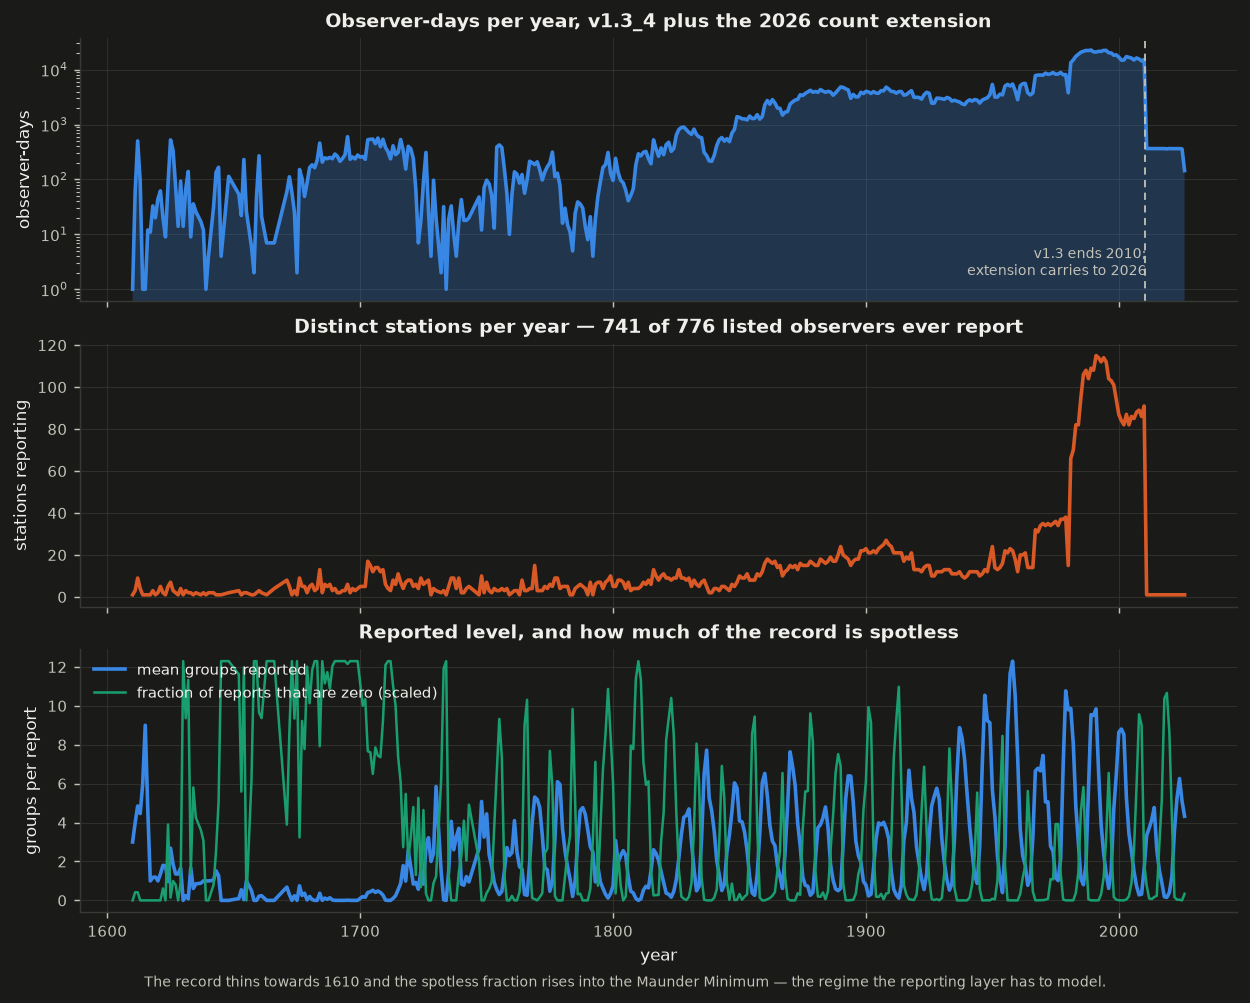
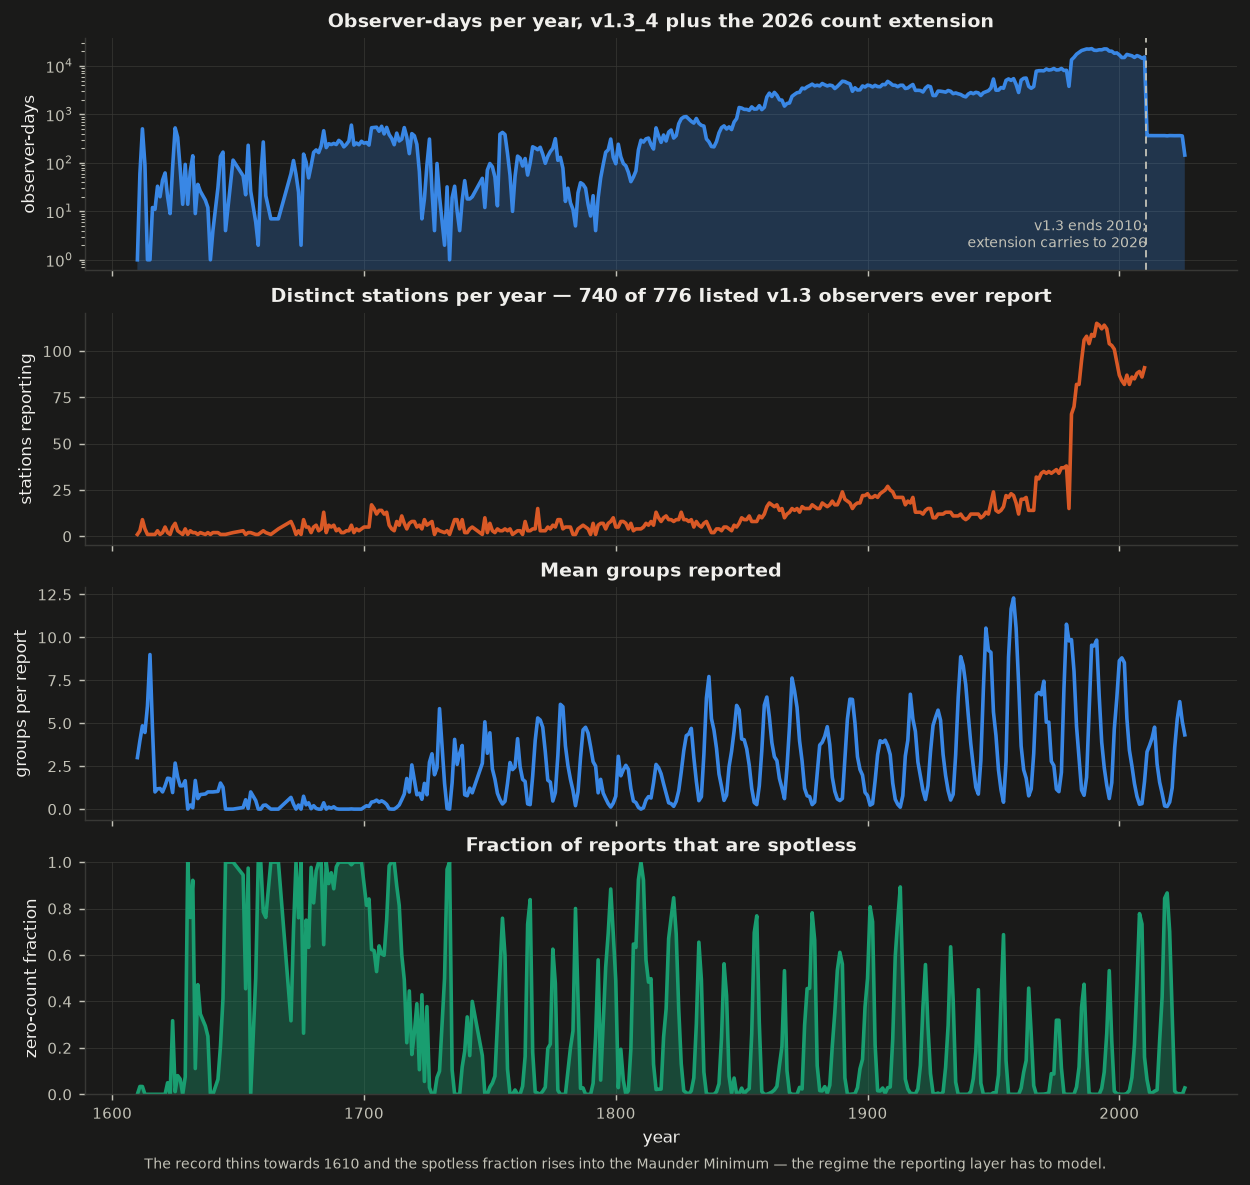
Correct the coverage figure and name the Maunder-era correction cluster
Two fixes found by looking at the rendered figures rather than trusting them.

f01 claimed "741 of 776 listed observers ever report", which silently counted
the extension's survey-derived station alongside v1.3's observers - two
different kinds of thing (D21). It is 740 of 776, with the extension counted
separately. The spotless fraction also moves to its own panel: it had been
scaled onto the mean-count axis, where it could not be read quantitatively.
With its own axis the Maunder Minimum reads straight off the figure as a
sustained plateau from about 1645 to 1715.

f02 now names what it shows. 99% of v1.3_4's corrected counts, 100% of its new
observer-days and 96% of its removals fall in 1715-1730, concentrated in
1719-1721. That is the end of the Maunder Minimum and the start of the
recovery - the era this project's grand-minimum question turns on - so a
Maunder-era result computed from v1.3_3 is not comparable with one computed
from v1.3_4. Recorded in the results doc as well as on the figure.

diff --git a/src/gn_next_gen/viz/data.py b/src/gn_next_gen/viz/data.py
@@ -58,6 +58,10 @@ def coverage_figure(mode: str = "light") -> plt.Figure:
     observations = load_observations(include_extension=True)
     observers = load_observers()
     observations = observations.assign(year=_years(observations["date_ord"].to_numpy()))
+    # The station count has to be split: v1.3's observers are the historical network,
+    # and the extension adds survey-derived stations that are not observers in the
+    # same sense (D21). Counting them together would overstate the network.
+    network = observations[observations["source"] == "v1.3_4"]
 
     per_year = observations.groupby("year").agg(
         observer_days=("station", "size"),
@@ -67,7 +71,7 @@ def coverage_figure(mode: str = "light") -> plt.Figure:
     spotless = observations.assign(zero=observations["groups"] == 0).groupby("year")["zero"].mean()
 
     with figure_style(mode):
-        fig, axes = plt.subplots(3, 1, figsize=(9.5, 7.6), sharex=True)
+        fig, axes = plt.subplots(4, 1, figsize=(9.5, 9.0), sharex=True)
 
         ax = axes[0]
         ax.fill_between(
@@ -91,31 +95,36 @@ def coverage_figure(mode: str = "light") -> plt.Figure:
         )
 
         ax = axes[1]
-        ax.plot(per_year.index, per_year["stations"], color=role_color("simulated", mode))
+        network_per_year = network.groupby("year")["station"].nunique()
+        ax.plot(
+            network_per_year.index, network_per_year.to_numpy(), color=role_color("simulated", mode)
+        )
         ax.set_ylabel("stations reporting")
         ax.set_title(
-            f"Distinct stations per year — {observations['station'].nunique()} of "
-            f"{len(observers)} listed observers ever report"
+            f"Distinct stations per year — {network['station'].nunique()} of "
+            f"{len(observers)} listed v1.3 observers ever report"
         )
 
         ax = axes[2]
-        ax.plot(
-            per_year.index,
-            per_year["mean_groups"],
-            color=role_color("observed", mode),
-            label="mean groups reported",
-        )
-        ax.plot(
-            spotless.index,
-            spotless * per_year["mean_groups"].max(),
-            color=role_color("alternative", mode),
-            linewidth=1.4,
-            label="fraction of reports that are zero (scaled)",
-        )
+        ax.plot(per_year.index, per_year["mean_groups"], color=role_color("observed", mode))
         ax.set_ylabel("groups per report")
+        ax.set_title("Mean groups reported")
+
+        # Its own panel rather than a scaled overlay: a second series squeezed onto
+        # another series' axis cannot be read quantitatively, and a twin axis is worse.
+        ax = axes[3]
+        ax.fill_between(
+            spotless.index,
+            spotless,
+            color=role_color("alternative", mode),
+            alpha=0.35,
+            linewidth=0,
+        )
+        ax.plot(spotless.index, spotless, color=role_color("alternative", mode))
+        ax.set_ylim(0, 1)
+        ax.set_ylabel("zero-count fraction")
         ax.set_xlabel("year")
-        ax.set_title("Reported level, and how much of the record is spotless")
-        ax.legend(loc="upper left")
+        ax.set_title("Fraction of reports that are spotless")
 
         caption(
             fig,
@@ -181,10 +190,21 @@ def release_diff_figure(diff: pd.DataFrame, mode: str = "light") -> plt.Figure:
         )
         ax.legend(loc="upper left")
 
+        # The cluster is the finding, so it is named rather than left to be noticed.
+        early = diff[(diff["year"] >= 1715) & (diff["year"] <= 1730)]
+        share = 100 * early["changed_groups"].sum() / max(diff["changed_groups"].sum(), 1)
+        for ax in axes:
+            ax.annotate(
+                f"1715–1730:\n{share:.0f}% of all corrections",
+                xy=(1731, ax.get_ylim()[1] * 0.75),
+                fontsize=7.5,
+                color=theme["text_secondary"],
+            )
         caption(
             fig,
-            "v1.3_4 is a correction-and-deduplication release: the duplicate keys that "
-            "dominated D16 are gone, and the corrections cluster where the recounts were.",
+            "v1.3_4 is a correction-and-deduplication release, and almost all of it lands in "
+            "1719–1721 — the end of the Maunder Minimum, which is the era this project's "
+            "grand-minimum question turns on.",
             mode,
         )
     return fig
